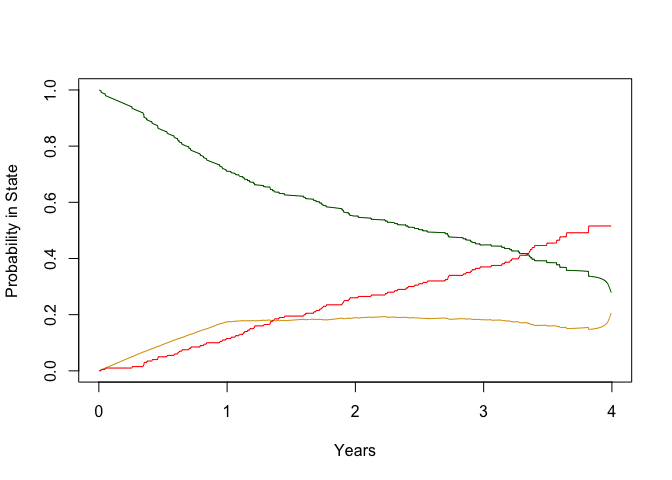
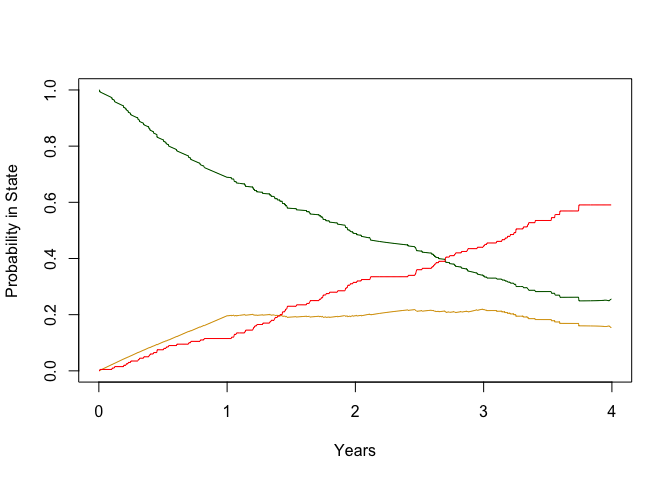
update readme

diff --git a/README.md b/README.md
@@ -27,47 +27,43 @@ You can install the development version of cwcens from
 ``` r
 # install.packages("devtools")
 devtools::install_github("anneae/cwcens")
-#> Downloading GitHub repo anneae/cwcens@HEAD
-#> 
-#>      checking for file ‘/private/var/folders/_c/yvdy3gz5161gc0gp7v18hks80000gn/T/RtmpfwfCjK/remotes2a87311e13a2/anneae-cwcens-d40b12f/DESCRIPTION’ ...  ✓  checking for file ‘/private/var/folders/_c/yvdy3gz5161gc0gp7v18hks80000gn/T/RtmpfwfCjK/remotes2a87311e13a2/anneae-cwcens-d40b12f/DESCRIPTION’
-#>   ─  preparing ‘cwcens’:
-#>    checking DESCRIPTION meta-information ...  ✓  checking DESCRIPTION meta-information
-#>   ─  checking for LF line-endings in source and make files and shell scripts
-#>   ─  checking for empty or unneeded directories
-#>   ─  building ‘cwcens_0.1.0.tar.gz’
-#>      
-#> 
-#> Installing package into '/private/var/folders/_c/yvdy3gz5161gc0gp7v18hks80000gn/T/RtmpuSc7tk/temp_libpath19dc7161ecab'
-#> (as 'lib' is unspecified)
+#> Skipping install of 'cwcens' from a github remote, the SHA1 (0102768b) has not changed since last install.
+#>   Use `force = TRUE` to force installation
 ```
 
 ## Irreversible Illness-Death Model Example
 
-First, we will simulate data from an irreversible illness-death model.
+First, we will simulate data from an irreversible illness-death model
+(that is, a model where backwards transitions are not allowed).
 
 <img src="man/figures/README-unnamed-chunk-3-1.png" width="100%" />
 
-Our dataset will contain 200 patients. Visits are scheduled every six
-months up to four years, and actual visit times are scattered around the
-scheduled visit times according to a normal distribution with a standard
-deviation of 10 days.
+Our simulated dataset will contain 200 patients. Visits are scheduled
+every six months up to four years, and actual visit times are scattered
+around the scheduled visit times according to a normal distribution with
+a standard deviation of 10 days. Right censoring time for death is
+generated from a uniform distribution on the interval from 36 to 48
+months. Setting `scale12 = NULL` means 1 to 2 transitions are not
+allowed (so the true multistate model is irreversible). The default
+values of `shape12`, `shape13` and `shape23` are 1, which implies that
+all transition intensities are constant over time.
 
 ``` r
 library(cwcens)
 
 irrevdat <- simdat(200, scale12=1/.0008, scale13=1/.0002, scale23=1/.0016,
-       scale21=1/.0008, vital.lfu=c(30.4*36, 30.4*48),
+       scale21=NULL, vital.lfu=c(30.4*36, 30.4*48),
        visit.schedule = 30.4*c(12, 24, 36, 48), scatter.sd=10, 
        seed = 123)
 
 head(irrevdat)
 #>       dtime dstatus state2obs laststate1       t1       t2       t3 t4 x1 x2 x3
-#> 1 1257.6632       0       Inf   1098.619 366.2642 730.8503 1098.619 NA  1  1  1
-#> 2 1435.7722       0       Inf   1098.825 387.8506 722.5368 1098.825 NA  1  1  1
-#> 3  298.6501       1       Inf      0.000       NA       NA       NA NA NA NA NA
-#> 4  414.0724       1  361.7453      0.000 361.7453       NA       NA NA  2 NA NA
-#> 5  136.8661       1       Inf      0.000       NA       NA       NA NA NA NA NA
-#> 6 1275.2804       0       Inf   1092.912 379.9240 741.2849 1092.912 NA  1  1  1
+#> 1 1180.9414       0       Inf  1097.9628 364.0644 740.3401 1097.963 NA  1  1  1
+#> 2  191.8389       1       Inf     0.0000       NA       NA       NA NA NA NA NA
+#> 3 1176.7786       0       Inf  1102.9520 358.4525 729.2667 1102.952 NA  1  1  1
+#> 4  499.9653       1  364.5116     0.0000 364.5116       NA       NA NA  2 NA NA
+#> 5  656.5566       1  371.5070     0.0000 371.5070       NA       NA NA  2 NA NA
+#> 6  637.7663       1       Inf   348.2945 348.2945       NA       NA NA  1 NA NA
 #>   x4 nvisits
 #> 1 NA       4
 #> 2 NA       4
@@ -79,10 +75,10 @@ head(irrevdat)
 
 The dataset `irrevdat` records the time that each visit occurred and the
 individual’s current state at each visit. For example, the individual in
-the first row of `irrevdat` had visits at 366.26, 730.85 and 1098.62
+the first row of `irrevdat` had visits at 364.06, 740.34 and 1097.96
 days, and their state at those visits was 1, 1 and 1, respectively,
 meaning they were still in state 1 (alive and illness-free) at the third
-visit. The individual was right censored at time 1257.66.
+visit. The individual was right censored at time 1180.94.
 
 We can estimate the probability of being in each state at 4 years with
 the following code:
@@ -93,12 +89,12 @@ PIS<-kernel.est(irrevdat, bandwidth = 30.4*12, tau2 = 30.4*48, prob.times = 30.4
 PIS
 #> $prob.info
 #>     time        p1        p2        p3
-#> 1 1459.2 0.2780514 0.2061952 0.5157534
+#> 1 1459.2 0.2568814 0.1524123 0.5907063
 ```
 
 We estimate that an individual will be alive and illness-free at 4 years
-with probability 0.278, alive with illness with probability 0.206, and
-dead with probability 0.516.
+with probability 0.257, alive with illness with probability 0.152, and
+dead with probability 0.591.
 
 We can estimate the restricted mean time in each state in the first 4
 years with the following code:
@@ -108,19 +104,19 @@ RMTISdays<-kernel.est(irrevdat, bandwidth = 30.4*12, tau2 = 30.4*48, mu.times = 
                 boundary = 'interpolation')
 RMTISdays
 #> $mu.info
-#>     time      mu1      mu2      mu3
-#> 1 1459.2 867.5006 228.1778 363.5216
+#>     time      mu1      mu2     mu3
+#> 1 1459.2 775.4122 251.1048 432.683
 RMTISyears<-kernel.est(irrevdat, bandwidth = 30.4*12, tau2 = 30.4*48, mu.times = 30.4*48,
                 boundary = 'interpolation', scale=12*30.4)
 RMTISyears
 #> $mu.info
-#>   time      mu1       mu2       mu3
-#> 1    4 2.378017 0.6254874 0.9964957
+#>   time      mu1       mu2      mu3
+#> 1    4 2.125582 0.6883355 1.186083
 ```
 
-We estimate that an individual will spend 2.38 years (868 days) in state
-1, 0.63 years (228 days) in state 2, and 1 years (364 days) in state 3,
-on average, out of the first 4 years.
+We estimate that an individual will spend 2.13 years (775 days) in state
+1, 0.69 years (251 days) in state 2, and 1.19 years (433 days) in state
+3, on average, out of the first 4 years.
 
 Below, we estimate the probability of being in each state over time
 (specifically, each day up to 1459 days or 4 years), and plot the
@@ -129,13 +125,13 @@ results.
 ``` r
 pmat<-kernel.est(irrevdat, bandwidth = 30.4*12, tau2 = 30.4*48, prob.times = 1:1459, boundary = 'interpolation')
 head(pmat$prob.info)
-#>   time        p1           p2 p3
-#> 1    1 0.9994593 0.0005406725  0
-#> 2    2 0.9989187 0.0010813451  0
-#> 3    3 0.9983780 0.0016220176  0
-#> 4    4 0.9978373 0.0021626902  0
-#> 5    5 0.9972966 0.0027033627  0
-#> 6    6 0.9967560 0.0032440353  0
+#>   time        p1           p2    p3
+#> 1    1 0.9993932 0.0006068061 0.000
+#> 2    2 0.9987864 0.0012136123 0.000
+#> 3    3 0.9931887 0.0018113163 0.005
+#> 4    4 0.9925849 0.0024150884 0.005
+#> 5    5 0.9919811 0.0030188606 0.005
+#> 6    6 0.9913774 0.0036226327 0.005
 plot((1:1459)/365.25, pmat$prob.info$p1, type = 'l', col = 'dark green', 
      xlab = 'Years', ylab = 'Probability in State', ylim = c(0,1))
 lines((1:1459)/365.25, pmat$prob.info$p2, col = 'goldenrod')
@@ -147,18 +143,21 @@ green, yellow and red lines represent the probability of being alive and
 illness-free, alive with illness, and dead, over time.
 
 Note that the green curve represents the probability of not having
-experienced a composite endpoint consisting of death and illness. A
-common approach for estimating the illness-free survival probability in
-this setting is to apply the Kaplan-Meier estimator to the observed
-data. That is, treat the first time illness is *observed* at a visit as
-the date it actually occurred, and if illness was not observed at a
-visit, assume illness did not occur. Calculate the (possibly right
+experienced a composite endpoint consisting of death and illness, which
+is something we often want to estimate in clinical studies. A common
+approach for estimating the illness-free survival probability in this
+setting is to apply the Kaplan-Meier estimator to the observed data.
+That is, treat the first time illness is *observed* at a visit as the
+date it actually occurred, and if illness was not observed at a visit,
+assume illness did not occur. Then, calculate the (possibly right
 censored) time to the earlier of illness or death for each person and
-apply the Kaplan-Meier estimator. The following code implements this
-approach and plots the resulting curve (green dotted line) along with
-the curve estimated with the kernel estimator (green solid line) and the
-true probability of being alive and illness-free based on the simulation
-parameters (black solid line).
+apply the Kaplan-Meier estimator.
+
+The following code implements this “standard” approach and plots the
+resulting curve (green dotted line) along with the curve estimated with
+the kernel estimator (green solid line) and the true probability of
+being alive and illness-free based on the simulation parameters (black
+solid line).
 
 ``` r
 library(survival)
@@ -171,7 +170,7 @@ kmest
 #> Call: survfit(formula = Surv(etime, event) ~ 1)
 #> 
 #>       n  events  median 0.95LCL 0.95UCL 
-#>     200     131     874     736    1099
+#>     200     138     741     722    1091
 
 plot((1:1459)/365.25, pmat$prob.info$p1, type = 'l', col = 'dark green', 
      xlab = 'Years', ylab = 'Probability in State', ylim = c(0,1))
